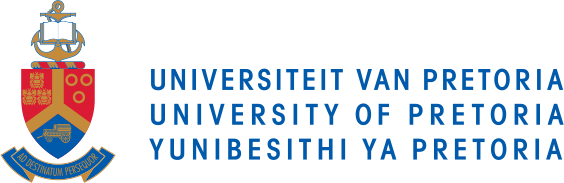
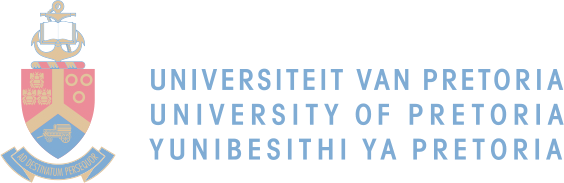
Updated project badge in README.md

diff --git a/README.md b/README.md
@@ -1,7 +1,7 @@
 <!-- PROJECT LOGO -->
 <p align="right">
 <a href="https://pub.dev">
-<img src="https://raw.githubusercontent.com/marcus-bornman/cos_710_assignment_1/master/assets/project_badge.png" height="100" alt="Flutter">
+<img src="https://raw.githubusercontent.com/marcus-bornman/cos_710_assignment_1/master/assets/project_badge.png" height="50" alt="Flutter">
 </a>
 </p>
 <p align="center">
